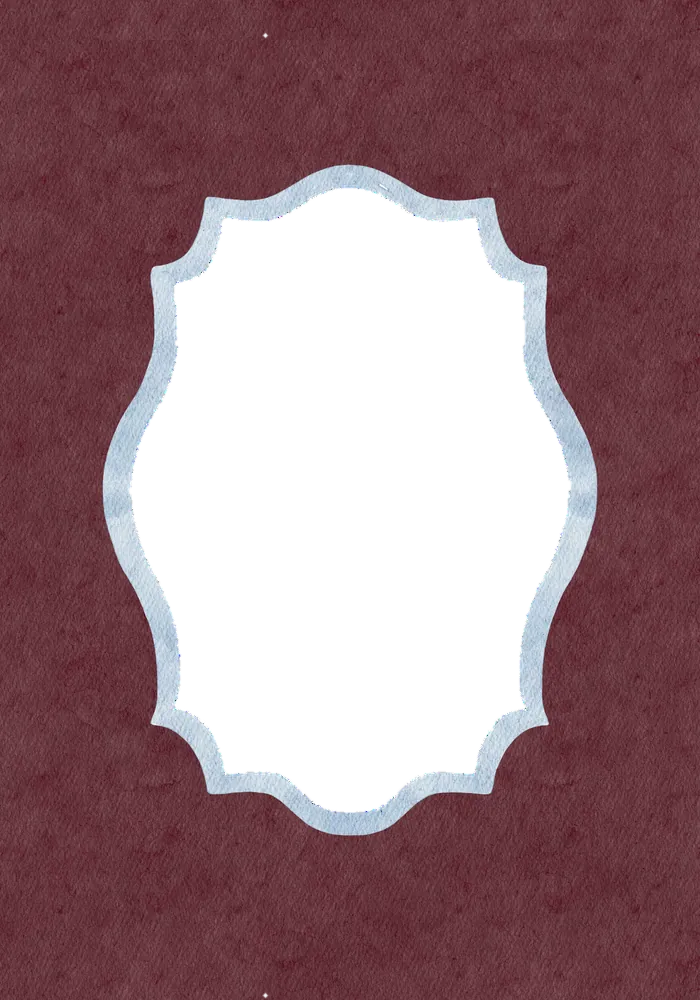
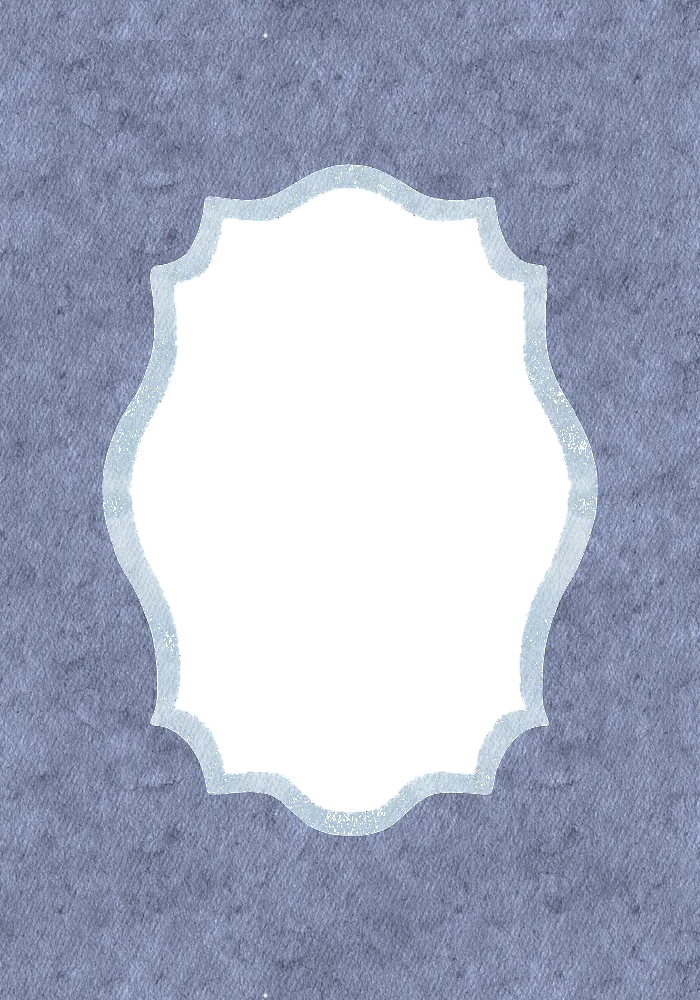
feat(landing): align hero typography with PDF and switch product background to periwinkle blue

diff --git a/frontend/src/styles/landing.css b/frontend/src/styles/landing.css
@@ -233,38 +233,64 @@
 
 .landing-v2 .lp-hero-title {
   display: flex;
-  flex-wrap: nowrap;
+  flex-wrap: wrap;
   align-items: center;
   justify-content: center;
-  gap: 0.02em;
+  gap: clamp(0.4rem, 1.2vw, 1.4rem);
   width: 100%;
+  max-width: 1180px;
   margin: clamp(0.9rem, 2.2vh, 1.6rem) auto clamp(1.1rem, 2.5vh, 1.6rem);
-  line-height: 0.9;
-  text-shadow: 0 0 30px rgba(255, 240, 220, 0.34), 0 4px 20px rgba(0, 0, 0, 0.55);
+  line-height: 1;
 }
 
-.landing-v2 .lp-hero-where,
-.landing-v2 .lp-hero-tells {
-  flex: 0 0 auto;
-  font-family: var(--lp-display);
-  font-size: clamp(0.62rem, 1.55vw, 1.18rem);
+.landing-v2 .lp-hero-flowers-wrap {
+  position: relative;
+  display: inline-flex;
+  align-items: center;
+}
+
+.landing-v2 .lp-hero-where {
+  position: absolute;
+  top: -0.72em;
+  right: 0.15em;
+  font-family: "Cinzel", serif;
+  font-size: clamp(0.68rem, 1.7vw, 1.35rem);
   font-weight: 500;
-  letter-spacing: 0.14em;
-  line-height: 1.1;
+  letter-spacing: 0.18em;
+  line-height: 1;
   text-transform: uppercase;
-  color: #f7ead9;
-  transform: translateY(-0.85em);
+  color: #fcf4e8;
+  white-space: nowrap;
+  text-shadow: 0 2px 10px rgba(0, 0, 0, 0.7);
+}
+
+.landing-v2 .lp-hero-tells {
+  font-family: "Cinzel", serif;
+  font-size: clamp(0.68rem, 1.7vw, 1.35rem);
+  font-weight: 500;
+  letter-spacing: 0.18em;
+  line-height: 1;
+  text-transform: uppercase;
+  color: #fcf4e8;
+  white-space: nowrap;
+  text-shadow: 0 2px 10px rgba(0, 0, 0, 0.7);
+  align-self: center;
+  margin: 0 clamp(0.2rem, 0.8vw, 0.8rem);
 }
 
 .landing-v2 .lp-hero-flowers,
 .landing-v2 .lp-hero-chapter {
-  flex: 0 0 auto;
-  font-family: var(--lp-script);
-  font-size: clamp(2.9rem, 7.6vw, 7.2rem);
+  font-family: "Parisienne", cursive;
+  font-size: clamp(3.4rem, 8.8vw, 7.8rem);
   font-weight: 400;
-  line-height: 0.72;
-  color: #fdf5e9;
+  line-height: 0.85;
+  color: #ffffff;
   white-space: nowrap;
+  text-shadow:
+    0 0 10px rgba(255, 240, 205, 0.95),
+    0 0 24px rgba(255, 212, 135, 0.85),
+    0 0 54px rgba(230, 162, 70, 0.65),
+    0 4px 20px rgba(20, 8, 10, 0.5);
 }
 
 .landing-v2 .lp-hero-sub {
@@ -396,11 +422,11 @@
 
 .landing-v2 .lp-products-body {
   padding: clamp(2.5rem, 5vw, 4.5rem) clamp(1rem, 5vw, 5rem);
-  background-color: #4a1019;
+  background-color: #b4c6ee;
   background-image:
-    radial-gradient(ellipse at 50% 0%, rgba(139, 58, 74, 0.55), transparent 62%),
-    linear-gradient(180deg, #5c1620 0%, #3f0d15 100%);
-  color: #f8ede0;
+    radial-gradient(ellipse at 50% 15%, rgba(255, 255, 255, 0.55), transparent 65%),
+    linear-gradient(180deg, #bcc8f5 0%, #a2b7ed 100%);
+  color: var(--lp-wine, #531B21);
 }
 
 .landing-v2 .lp-products-head {
@@ -423,7 +449,7 @@
   padding: 0;
   border: 0;
   background: transparent;
-  color: #fbf1e4;
+  color: var(--lp-wine, #531B21);
   text-align: center;
   cursor: pointer;
 }
@@ -433,8 +459,8 @@
   aspect-ratio: 7 / 10;
   border-radius: 6px;
   overflow: visible;
-  background: #b4c6ee;
-  box-shadow: 0 18px 34px rgba(20, 8, 10, 0.35);
+  background: #bcc8f5;
+  box-shadow: 0 18px 34px rgba(40, 50, 90, 0.22);
 }
 
 .landing-v2 .lp-products .product-img-layer {
@@ -442,7 +468,7 @@
   inset: 0;
   overflow: hidden;
   border-radius: 6px;
-  background: #b4c6ee;
+  background: #bcc8f5;
 }
 
 .landing-v2 .lp-products .product-thumb {
@@ -477,8 +503,8 @@
   display: flex;
   align-items: center;
   justify-content: center;
-  background: #b4c6ee;
-  background-image: radial-gradient(circle at 50% 48%, #c9d8fb 0%, #b0c2ee 100%);
+  background: #c5d3f8;
+  background-image: radial-gradient(circle at 50% 48%, #dae5fd 0%, #b8c8f2 100%);
 }
 
 .landing-v2 .lp-products .product-monogram-inner {
@@ -498,9 +524,9 @@
 .landing-v2 .lp-products .product-name {
   font-family: var(--lp-display);
   font-size: 1.15rem;
-  font-weight: 500;
+  font-weight: 600;
   letter-spacing: 0.02em;
-  color: #fbf1e4;
+  color: var(--lp-wine, #531B21);
 }
 
 .landing-v2 .lp-products .product-footer {
@@ -512,14 +538,15 @@
 }
 
 .landing-v2 .lp-products .product-price {
-  color: #e8c9a8;
+  color: #68202b;
   font-family: var(--lp-body);
-  font-size: 0.78rem;
-  letter-spacing: 0.08em;
+  font-size: 0.82rem;
+  font-weight: 600;
+  letter-spacing: 0.06em;
 }
 
 .landing-v2 .lp-products .product-btn {
-  color: #f3d9c8;
+  color: #7a2835;
   font-family: var(--lp-body);
   font-size: 0.68rem;
   letter-spacing: 0.12em;
@@ -547,15 +574,28 @@
   height: 44px;
   align-items: center;
   justify-content: center;
-  border: 1px solid rgba(251, 241, 228, 0.4);
+  border: 1px solid rgba(83, 27, 33, 0.35);
   border-radius: 50%;
-  background: transparent;
-  color: #fbf1e4;
+  background: rgba(255, 255, 255, 0.4);
+  color: var(--lp-wine, #531B21);
   cursor: pointer;
+  transition: all 0.2s ease;
+}
+
+.landing-v2 .lp-products-actions .slider-nav-btn:hover {
+  background: var(--lp-wine, #531B21);
+  color: #ffffff;
 }
 
 .landing-v2 .lp-products-actions .lp-btn {
-  color: #fbf1e4;
+  border-color: var(--lp-wine, #531B21);
+  color: var(--lp-wine, #531B21);
+  background: rgba(255, 255, 255, 0.35);
+}
+
+.landing-v2 .lp-products-actions .lp-btn:hover {
+  background: var(--lp-wine, #531B21);
+  color: #ffffff;
 }
 
 /* ── KOLOM PENGISIAN ── */
@@ -1247,11 +1287,6 @@
 
 /* ── RESPONSIVE ── */
 @media (max-width: 1024px) {
-  .landing-v2 .lp-hero-where,
-  .landing-v2 .lp-hero-tells {
-    transform: none;
-  }
-
   .landing-v2 .lp-intro {
     grid-template-columns: 1fr;
   }
@@ -1282,19 +1317,31 @@
 @media (max-width: 760px) {
   .landing-v2 .lp-hero-title {
     flex-direction: column;
-    gap: 0.05rem;
+    gap: 0.6rem;
+  }
+
+  .landing-v2 .lp-hero-flowers-wrap {
+    display: flex;
+    flex-direction: column;
+    align-items: center;
+  }
+
+  .landing-v2 .lp-hero-where {
+    position: static;
+    transform: none;
+    margin-bottom: -0.2rem;
   }
 
   .landing-v2 .lp-hero-flowers,
   .landing-v2 .lp-hero-chapter {
-    font-size: clamp(4rem, 18vw, 6.5rem);
-    line-height: 0.78;
+    font-size: clamp(3.2rem, 16vw, 5.5rem);
+    line-height: 0.88;
   }
 
   .landing-v2 .lp-hero-where,
   .landing-v2 .lp-hero-tells {
-    font-size: 0.82rem;
-    letter-spacing: 0.2em;
+    font-size: 0.78rem;
+    letter-spacing: 0.16em;
   }
 
   .landing-v2 .lp-hero-inner {

diff --git a/frontend/src/pages/Home.tsx b/frontend/src/pages/Home.tsx
@@ -580,10 +580,12 @@ export default function Home() {
           <div className="lp-hero-veil" aria-hidden="true" />
           <div className="lp-hero-inner">
             <span className="lp-hero-kicker">A CHAPTER · PRE-ORDER 2026</span>
-            <h1 className="lp-hero-title">
-              <span className="lp-hero-where">where every</span>
-              <span className="lp-hero-flowers">Flowers</span>
-              <span className="lp-hero-tells">Tells your</span>
+            <h1 className="lp-hero-title" aria-label="Where Every Flowers Tells Your Chapter">
+              <span className="lp-hero-flowers-wrap">
+                <span className="lp-hero-where">WHERE EVERY</span>
+                <span className="lp-hero-flowers">Flowers</span>
+              </span>
+              <span className="lp-hero-tells">TELLS YOUR</span>
               <span className="lp-hero-chapter">Chapter</span>
             </h1>
             <p className="lp-hero-sub">

diff --git a/frontend/index.html b/frontend/index.html
@@ -28,7 +28,7 @@
     <link rel="preload" href="/landing/hero-flowers.webp" as="image" type="image/webp">
     <link rel="preconnect" href="https://fcevjiflawxmzrccramo.supabase.co" crossorigin>
     <link rel="dns-prefetch" href="https://images.unsplash.com">
-    <link rel="stylesheet" href="https://fonts.googleapis.com/css2?family=Cormorant+Garamond:ital,wght@0,400;0,600;1,400&family=DM+Sans:wght@400;500;600&display=swap">
+    <link rel="stylesheet" href="https://fonts.googleapis.com/css2?family=Cinzel:wght@500;600&family=Cormorant+Garamond:ital,wght@0,400;0,600;1,400&family=DM+Sans:wght@400;500;600&family=Parisienne&display=swap">
     <script type="application/ld+json">
       {
         "@context": "https://schema.org",
